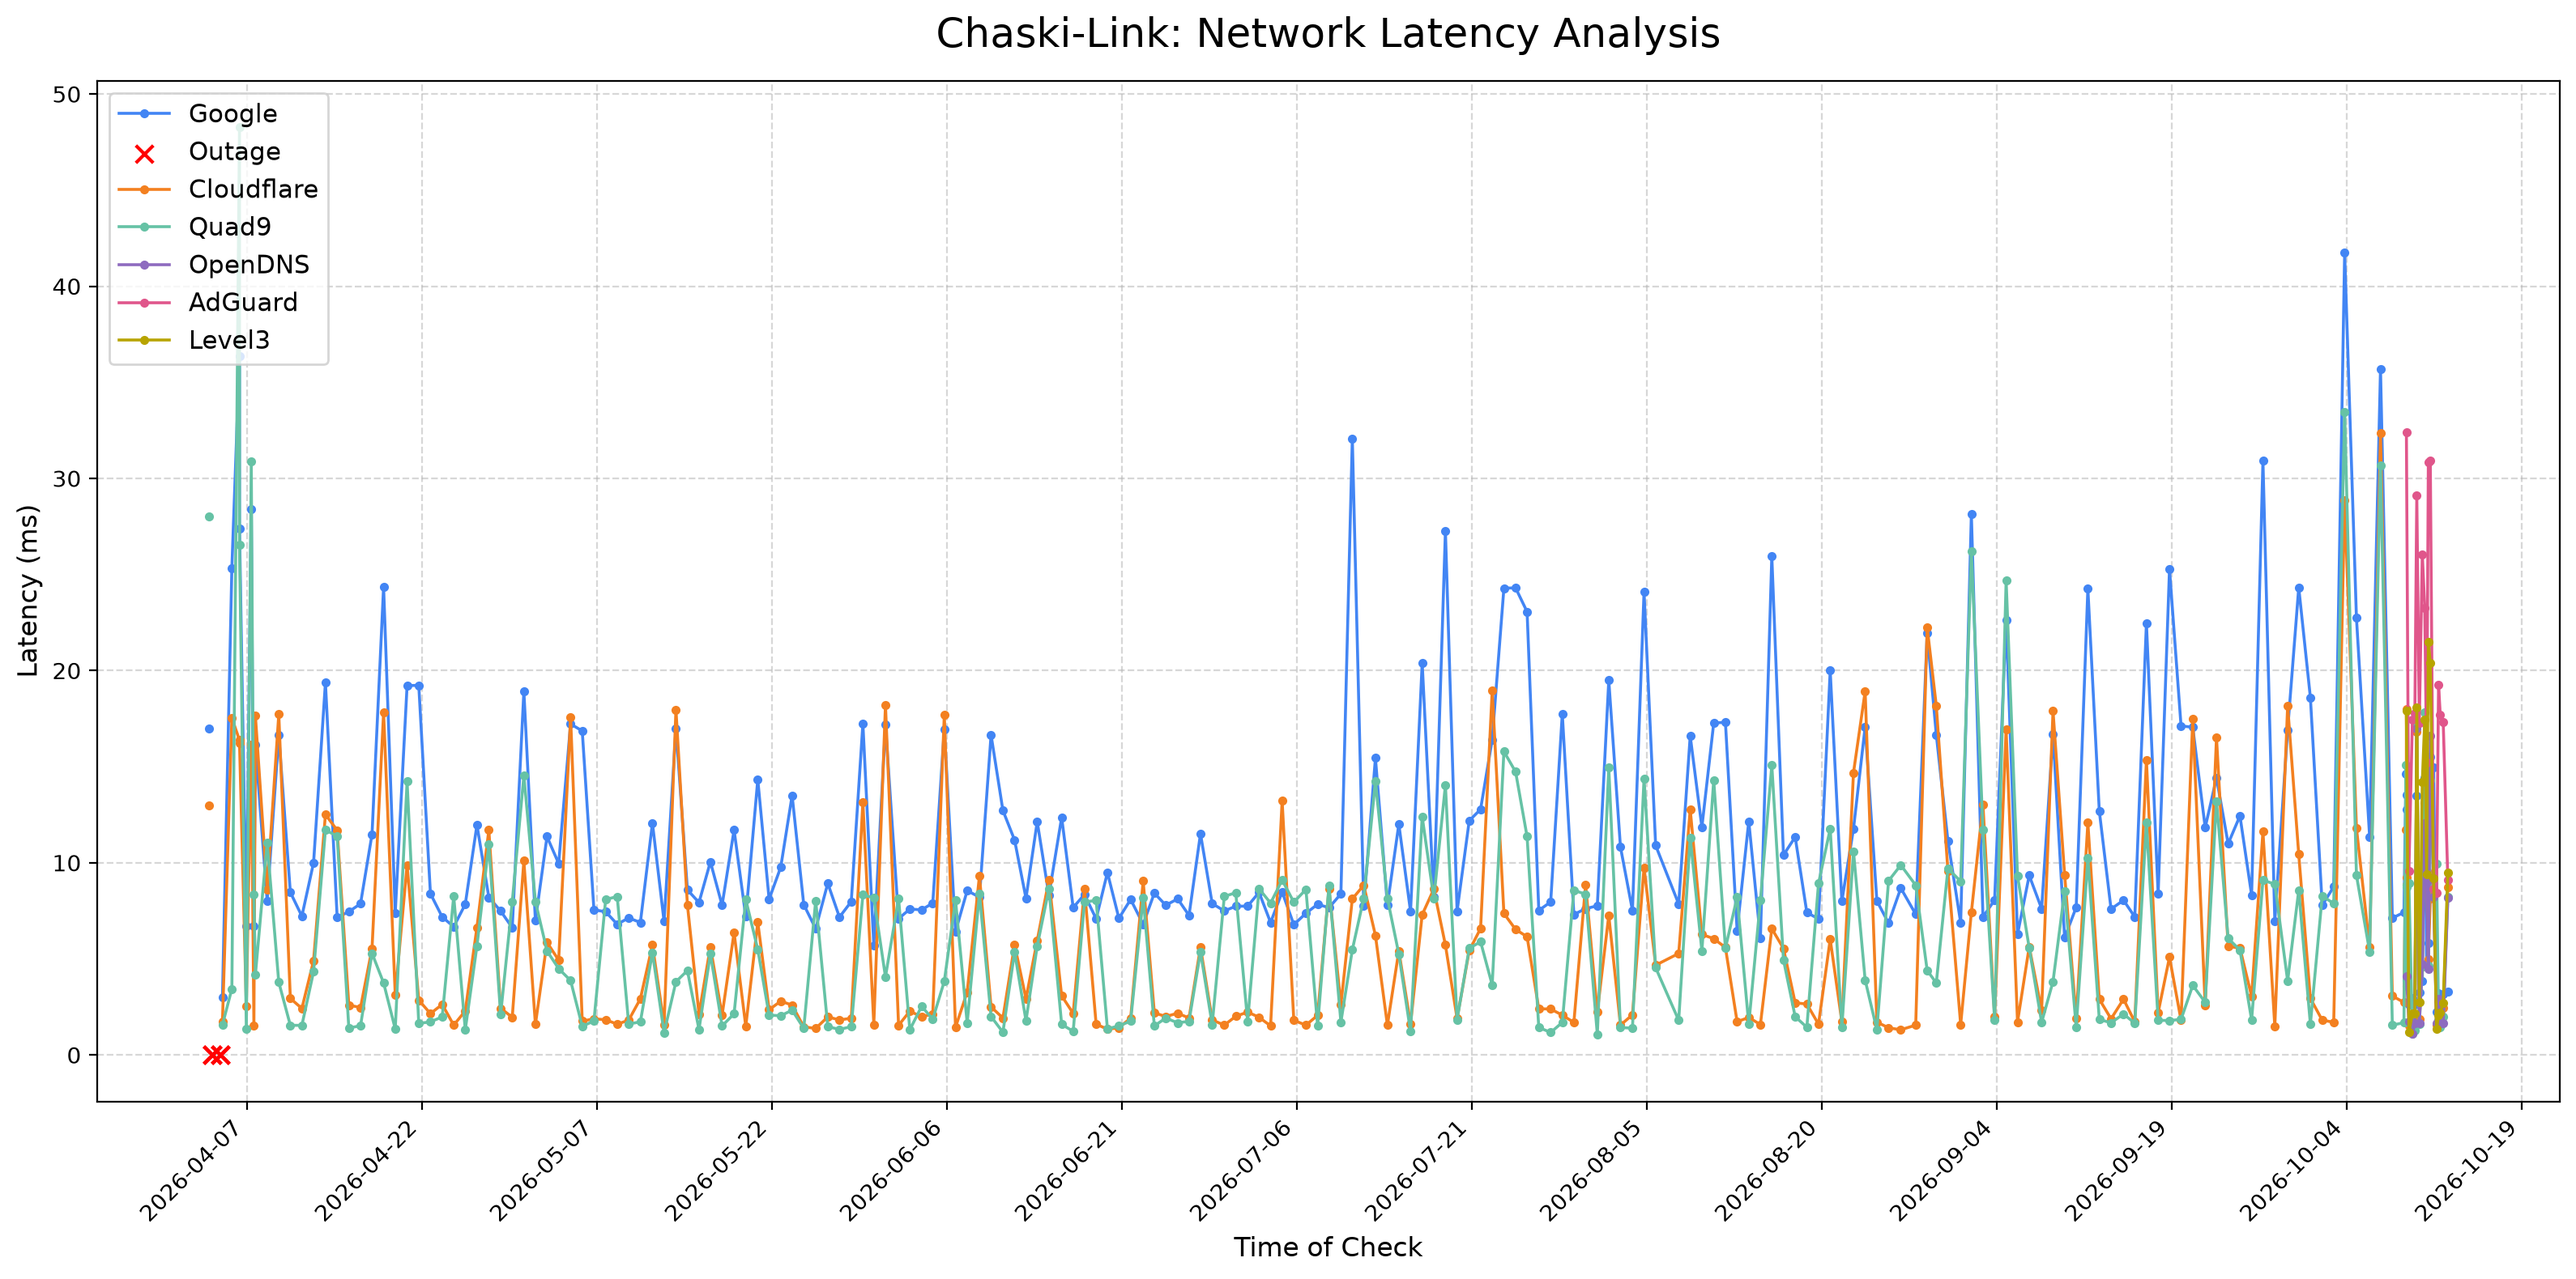
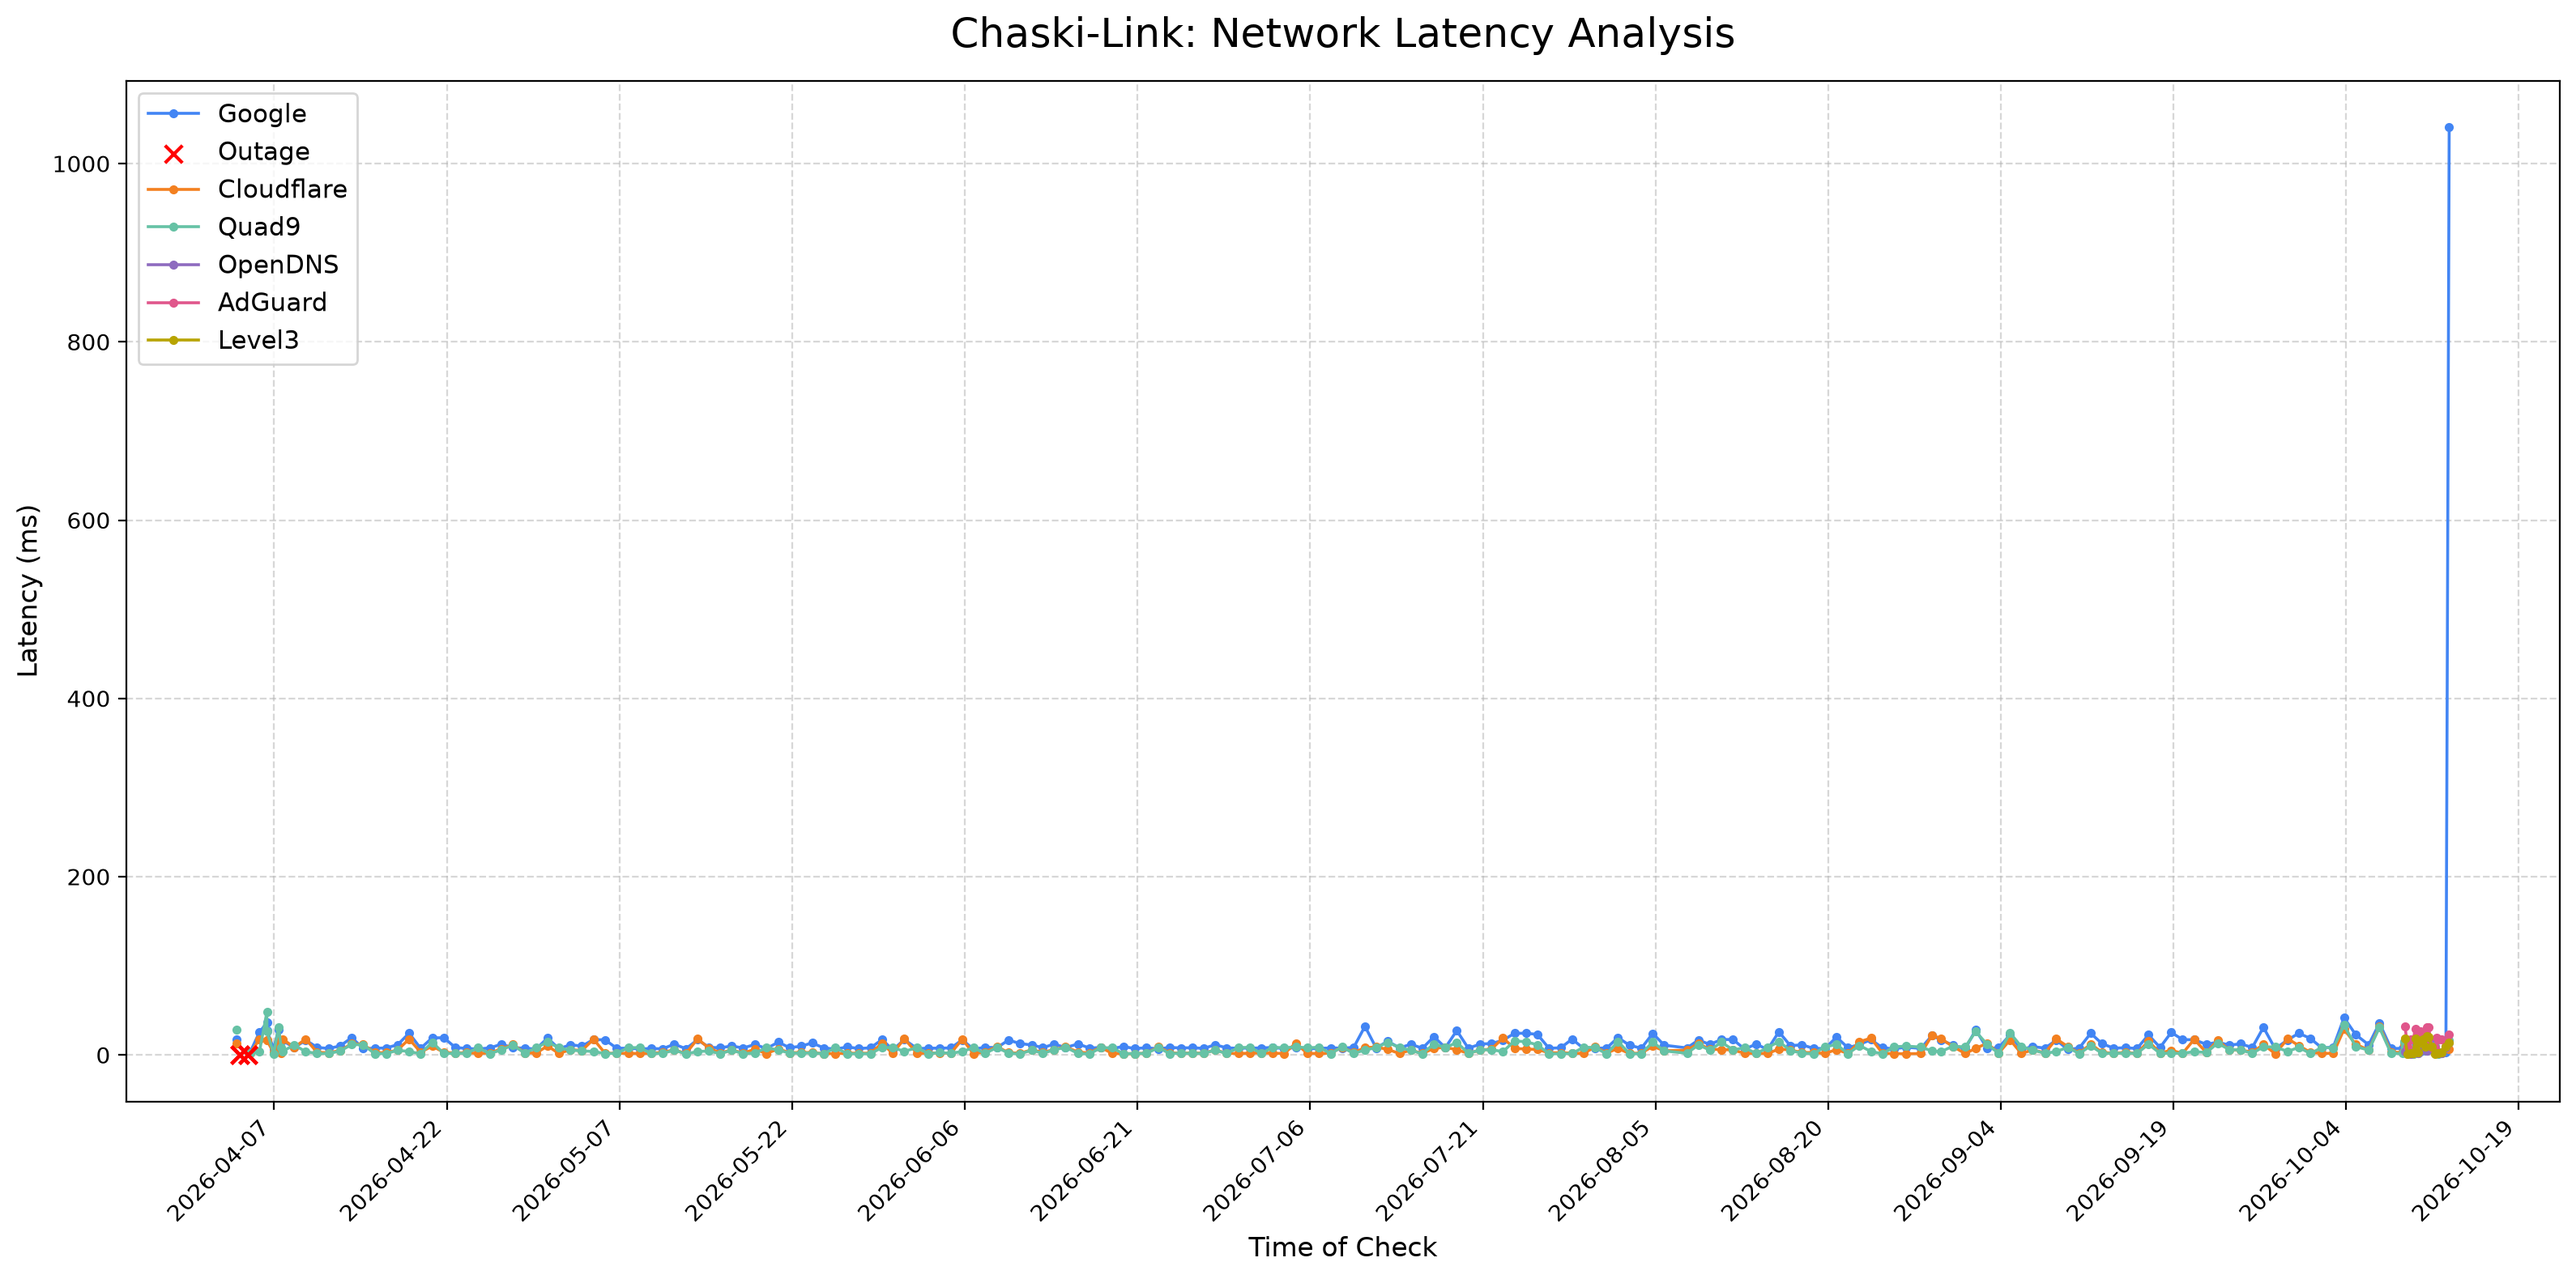
Chaski-Link: Automated Update [Skip CI]

diff --git a/status.html b/status.html
@@ -52,63 +52,78 @@
 <body>
   <div class="container">
     <h1>Chaski-Link Status</h1>
-    <p class="subtitle">Last check: 2026-10-12 10:52 AM CDT</p>
+    <p class="subtitle">Last check: 2026-10-12 05:42 PM CDT</p>
 
     <div class="cards">
         <div class="card">
           <div class="card-header">
-            <span class="dot up"></span>
+            <span class="dot degraded"></span>
             <span class="server-name">Google</span>
           </div>
-          <div class="reading">3.30ms</div>
-          <div class="uptime">99.07% uptime (214 checks)</div>
+          <div class="reading">1040.95ms</div>
+          <div class="uptime">99.07% uptime (215 checks)</div>
         </div>
         <div class="card">
           <div class="card-header">
             <span class="dot up"></span>
             <span class="server-name">Cloudflare</span>
           </div>
-          <div class="reading">8.72ms</div>
-          <div class="uptime">99.07% uptime (214 checks)</div>
+          <div class="reading">6.97ms</div>
+          <div class="uptime">99.07% uptime (215 checks)</div>
         </div>
         <div class="card">
           <div class="card-header">
             <span class="dot up"></span>
             <span class="server-name">Quad9</span>
           </div>
-          <div class="reading">8.24ms</div>
-          <div class="uptime">99.07% uptime (214 checks)</div>
+          <div class="reading">16.92ms</div>
+          <div class="uptime">99.07% uptime (215 checks)</div>
         </div>
         <div class="card">
           <div class="card-header">
             <span class="dot up"></span>
             <span class="server-name">OpenDNS</span>
           </div>
-          <div class="reading">8.17ms</div>
-          <div class="uptime">100.00% uptime (17 checks)</div>
+          <div class="reading">13.39ms</div>
+          <div class="uptime">100.00% uptime (18 checks)</div>
         </div>
         <div class="card">
           <div class="card-header">
             <span class="dot up"></span>
             <span class="server-name">AdGuard</span>
           </div>
-          <div class="reading">9.09ms</div>
-          <div class="uptime">100.00% uptime (17 checks)</div>
+          <div class="reading">22.87ms</div>
+          <div class="uptime">100.00% uptime (18 checks)</div>
         </div>
         <div class="card">
           <div class="card-header">
             <span class="dot up"></span>
             <span class="server-name">Level3</span>
           </div>
-          <div class="reading">9.50ms</div>
-          <div class="uptime">100.00% uptime (17 checks)</div>
+          <div class="reading">14.10ms</div>
+          <div class="uptime">100.00% uptime (18 checks)</div>
         </div>
     </div>
 
     <h2>Recent Incidents</h2>
-    <p class="empty">No incidents recorded. All checks have been healthy.</p>
+    
+        <table>
+          <thead>
+            <tr><th>Severity</th><th>Server</th><th>Started</th><th>Ended</th><th>Duration</th><th>Status</th></tr>
+          </thead>
+          <tbody>
+        <tr>
+          <td><span class="pill degraded">Degraded</span></td>
+          <td>Google</td>
+          <td>2026-10-12 05:42 PM CDT</td>
+          <td>—</td>
+          <td>ongoing</td>
+          <td>OPEN</td>
+        </tr>
+          </tbody>
+        </table>
 
-    <p class="footer">Generated 2026-10-12 10:52 AM CDT &middot; <a href="https://github.com/seroLinen/chaski-link" style="color:var(--muted)">seroLinen/chaski-link</a></p>
+    <p class="footer">Generated 2026-10-12 05:42 PM CDT &middot; <a href="https://github.com/seroLinen/chaski-link" style="color:var(--muted)">seroLinen/chaski-link</a></p>
   </div>
 </body>
 </html>
